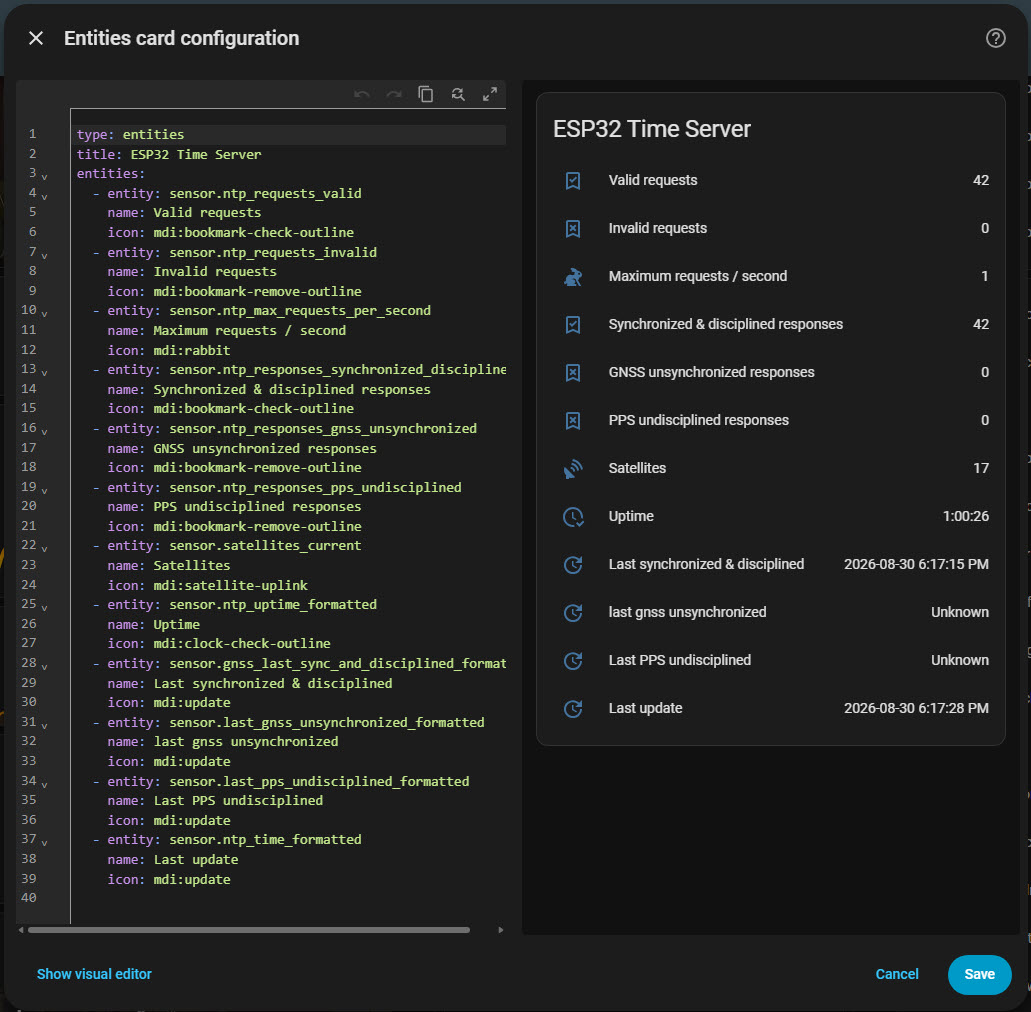
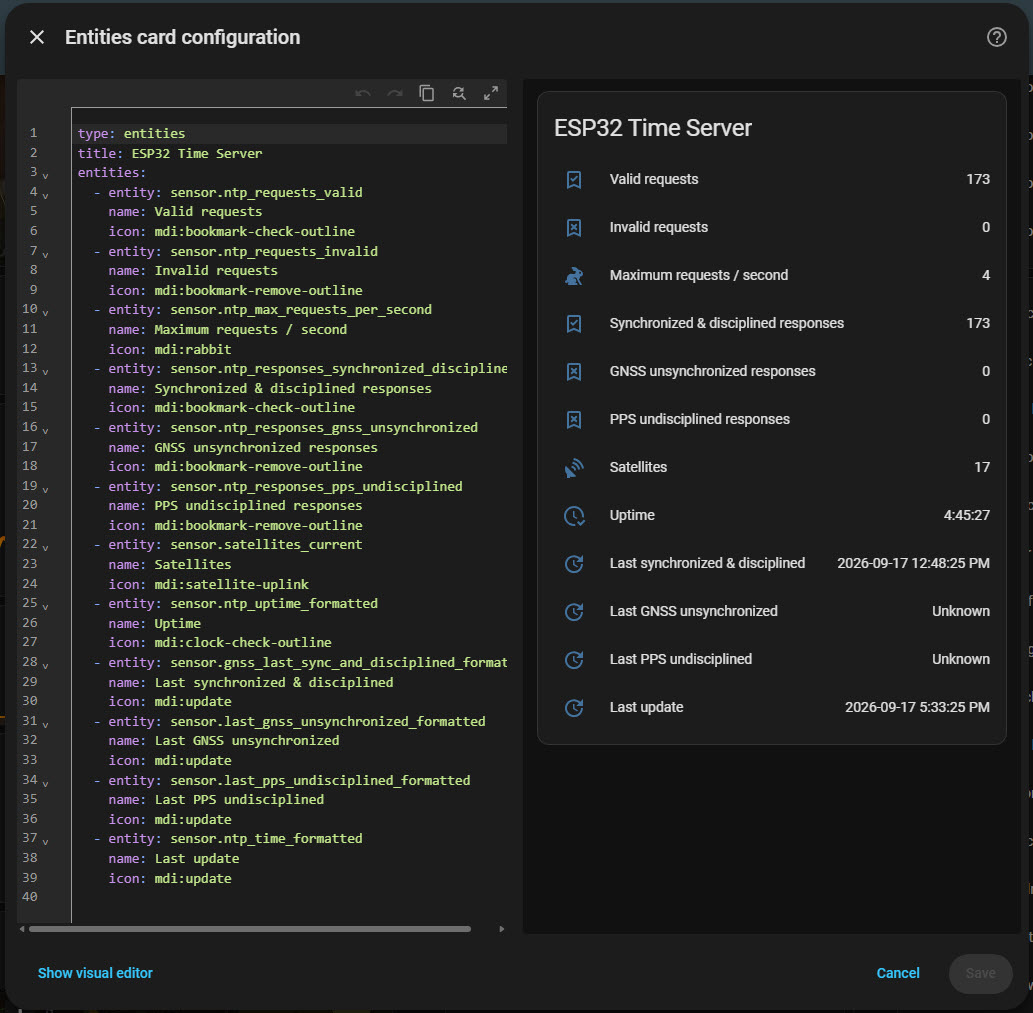
HA updated typo on dashboard card

diff --git a/HomeAssistant/README.md b/HomeAssistant/README.md
@@ -863,7 +863,7 @@ entities:
     name: Last synchronized & disciplined
     icon: mdi:update
   - entity: sensor.last_gnss_unsynchronized_formatted
-    name: last gnss unsynchronized
+    name: Last GNSS unsynchronized
     icon: mdi:update
   - entity: sensor.last_pps_undisciplined_formatted
     name: Last PPS undisciplined
